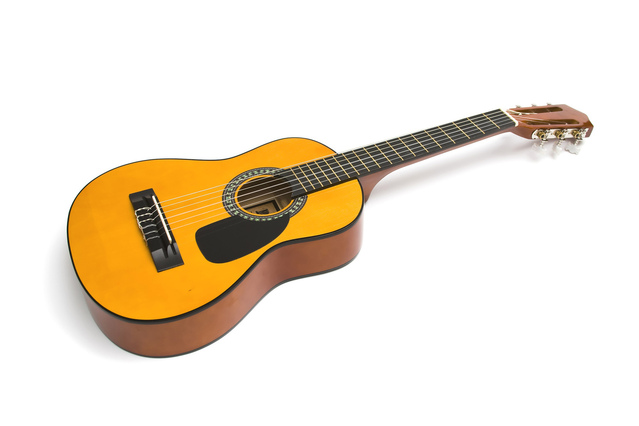
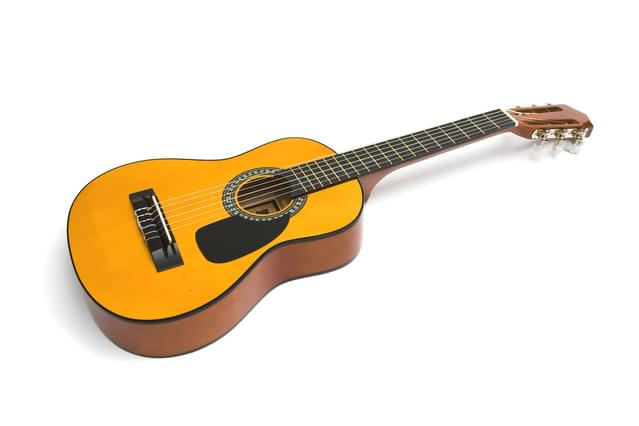
Resource optimizations
image size reduce
demo styling

diff --git a/Gruntfile.js b/Gruntfile.js
@@ -1,3 +1,4 @@
+var mozjpeg = require('imagemin-mozjpeg');
 module.exports = function(grunt) {
 
     // Project configuration.
@@ -31,6 +32,21 @@ module.exports = function(grunt) {
                 },
             },
         },
+        imagemin: {
+            dynamic: {
+                options: {
+                    optimizationLevel: 3,
+                    svgoPlugins: [{ removeViewBox: false }],
+                    use: [mozjpeg()]
+                },
+                files: [{
+                    expand: true,
+                    cwd: 'demo/images/',
+                    src: ['*.{png,jpg,gif}'],
+                    dest: 'demo/images/'
+                }]
+            }
+        }
     });
 
     // Load the plugin that provides the "jshint" task.
@@ -44,6 +60,9 @@ module.exports = function(grunt) {
 
     // Load the plugin that provides the "watch" task.
     grunt.loadNpmTasks('grunt-contrib-watch');
+
+    //image compressor
+    grunt.loadNpmTasks('grunt-contrib-imagemin');
 
     // Default task(s).
     grunt.registerTask('default', ['jshint', 'uglify', 'qunit']);

diff --git a/demo/demoData.js b/demo/demoData.js
@@ -2,10 +2,13 @@ modelData = [{
         src: "images/image2.jpg",
         title: "image-one"
     },{
-        src: "images/image1.jpg",
+        src: "images/horn.png",
         title: "image-two"
     },{
-        src: "images/image3.jpg",
+        src: "images/accord.jpg",
         title: "image-three"
+    },{
+        src: "images/music.png",
+        title: "image-four"
     }
 ];

diff --git a/demo/demo.css b/demo/demo.css
@@ -1,3 +1,6 @@
+body {
+    background-color: #EFEFEF;
+}
 h1 {
     text-align: center;
 }
@@ -7,7 +10,8 @@ h1 {
     height: 300px;
     margin: auto;
 
-    border: 1px solid black;
+    background-color: white;
+    box-shadow: 0 2px 4px rgba(0,0,0,0.5);
 }
 
 @media only screen and (min-width: 800px) {
